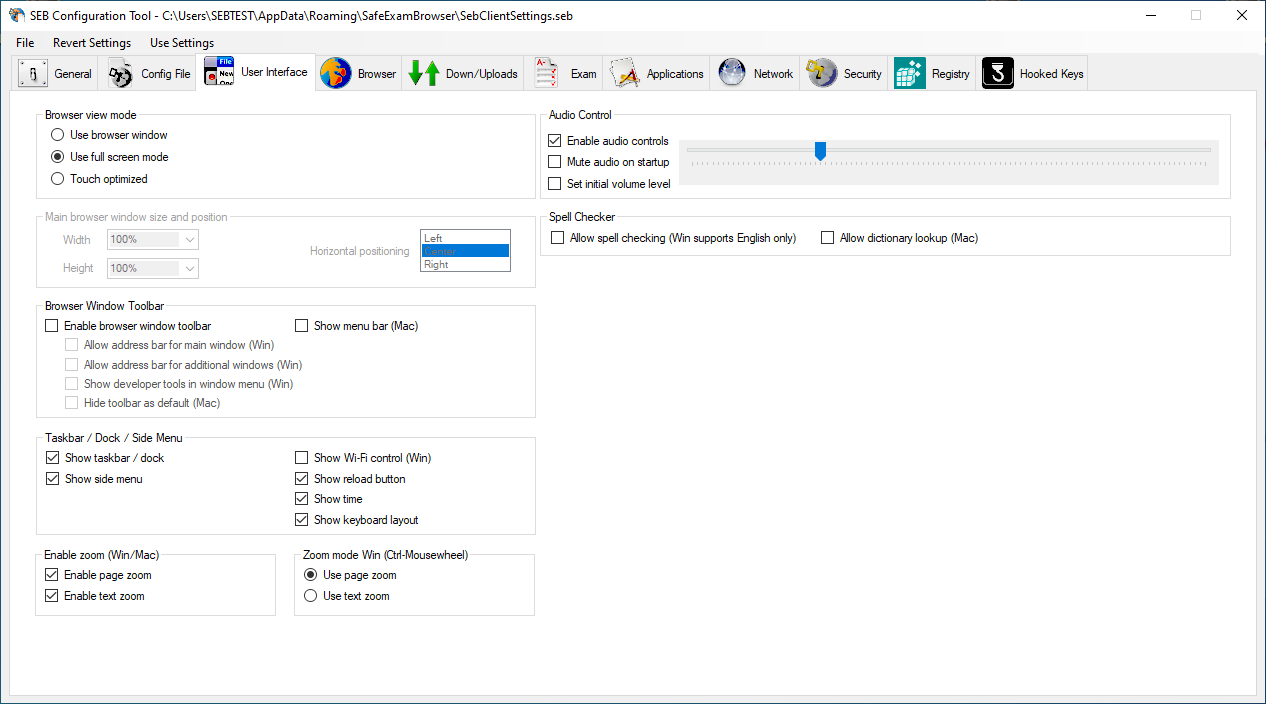
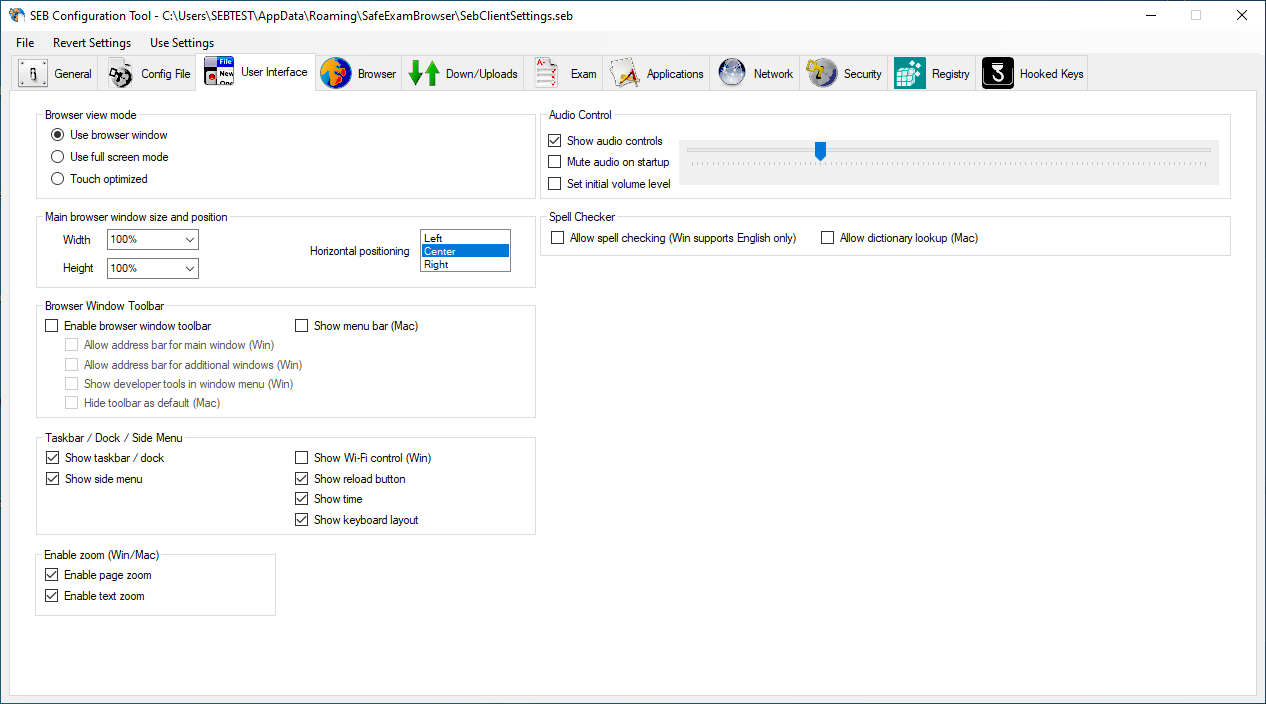
Korrekturen für SEB 3.3.1 gemäss SEBWIN-529
Korrekturen für SEB 3.3.1 gemäss SEBWIN-529

diff --git a/windows/win_usermanual_en.html b/windows/win_usermanual_en.html
@@ -585,13 +585,12 @@ Touch optimized mode features are:
 	</ul>
      <span class="quote">Enable zoom (Win/Mac)</span>
 	<ul>
-            <li><span class="quote">Enable page zoom</span>: Pages can be zoomed with Ctrl-Mousewheel (Win) or cmd +/- or the commands in the view menu and buttons in browser window toolbar (Mac)</li>
+            <li><span class="quote">Enable page zoom</span>:he internal SEB browser can be zoomed with cmd +/- or the commands in the view menu and buttons in browser window toolbar (Mac). Additionally, third party applications can also be zoomed with Ctrl-Mousewheel (Win).</li>
             <li><span class="quote">Enable text zoom</span>: Text in browser windows can be zoomed with Ctrl-Mousewheel (Win) or ctrl - cmd +/- or the commands in the view menu and buttons in browser window toolbar (Mac)</li>
-            <li><span class="quote">Zoom Mode</span> (Win): Zoom whole web pages or just text using Ctrl-Mousewheel (only in Windows version)</li>
           </ul>
           <span class="quote">Audio Controls</span>
           <ul>
-            <li><span class="quote">Enable audio controls</span>: Show the audio control icon in the SEB taskbar which can be used to mute or change audio volume.</li>
+            <li><span class="quote">Show audio controls</span>: Show the audio control icon in the SEB taskbar which can be used to mute or change audio volume.</li>
             <li><span class="quote">Mute audio on startup</span>: Mute  audio initially (when starting SEB or an exam).</li>
             <li><span class="quote">Set initial audio volume</span>: Set an initial value for the audio volume.</li>
           </ul>
@@ -734,7 +733,7 @@ It is possible to configure SEB to quit after the exam is submitted without havi
             Settings in the Applications Pane
           </h4>
           <p>You can allow third party applications to be used while SEB is running. Usually you would enable the SEB taskbar, then for each allowed application (with the setting &quot;Icon in taskbar&quot; enabled) an application icon will be displayed in the SEB taskbar. Clicking on the icon  starts the application when it's not yet running or brings its window(s) to the foreground. If a running application has several windows open, SEB displays a window chooser. You can switch between open windows with  keys Alt-Tab as well.</p>
-          <p>SEB allows only applications to run which are configured in &quot;Permitted Processes&quot; (as long as the &quot;Monitor processes&quot; setting below is active). But SEB cannot prevent these applications from:</p>
+          <p>SEB allows only applications to run which are configured in &quot;Permitted Processes&quot; (as long as the &quot;Monitor processes&quot; setting above is active). But SEB cannot prevent these applications from:</p>
           <p><strong>• Accessing the file system (local or network drives).</strong> So if you use an application which can open and save files and displays a file dialog, students can access local and network drives on the exam computer. </p>
           <p><strong>• Accessing the internet.</strong> SEB only has a URL filter for the built-in browser, other applications and the system are not blocked from accessing the internet. So any third party software with a built-in help browser or similar can be used to cheat during an exam.</p>
           <p>Therefore using such applications requires additional measures, as for example a  drive which is cleaned before every exam on a managed computer and a firewall (either hardware or firewall filter rules in a virtual desktop, see below). If you intend to use SEB with third party applications on unmanaged computers (BYOD, student owned machines), you should run the exam including those third party applications in a secured virtual machine, usually this would be a virtual desktop. <a href="http://safeexambrowser.org/vdi/Competence-Oriented_Exams_VDI+SEB_ETH-LET_2017_03.pdf" target="_blank">This technical paper</a> describes the virtual desktop infrastructure (VDI) environment <a href="https://www.ethz.ch/en.html" target="_blank">ETH Zurich</a> (the top ranked  university in continental Europe which is the driving force behind the development of SafeExamBrowser) is using for such exams. For other (less technical) papers on our exam environment, see our <a href="../about_publications_en.html">publications</a> page. Our environment runs on managed computers and uses the VMware View Client software secured by SEB on the local machine and another instance of SEB running inside the virtual desktop, allowing to use the configured permitted third party applications in addition to an exam displayed by the SEB browser. In a bring-your-own-device scenario you would ideally use VDI with a technology like <a href="https://www.vmware.com/pdf/horizon-view/horizon-html-access-4x-document.pdf" target="_blank">VMware Horizon View HTML Access</a>. Then students just need to install/run SEB on their Windows or Mac laptops. SEB would be configured to only load and display the HTML Access portal page in a full screen browser window (ideally without displaying the SEB taskbar/dock). The entire exam takes place in the virtual desktop, which can be perfectly secured. You also don't have to worry about distributing, configuring and licensing those third party applications you want to use in exams to students, as you just have to install and configure these applications once on the master image for the VDI exam pool. If an exam computer breaks down during the exam, no data is lost, as everything is running inside the virtual desktop on your server infrastructure. Usually such exams would have a browser-based part, where you place the questions and maybe template files, which students then can open in the permitted third party applications. After they finish working on those documents, they can save the results and upload them into the exam, using a file upload question type. Students can only interact with the empty file system inside the virtual desktop, they also cannot access the local file systems or connected USB sticks on their BYOD exam computers.</p>
@@ -742,7 +741,7 @@ It is possible to configure SEB to quit after the exam is submitted without havi
           <h5 class="seb-section-header">Setting options:</h5>
           
           <ul id="seblist">
-            <li><span class="quote">Monitor processes while SEB is running:</span> If enabled, SEB prevents non-permitted processes to display any windows (including alerts, message boxes etc.) by hiding them immediately. If SEB cannot hide such a process (because it is running with the rights of another user, for example SYSTEM) SEB terminates it. For the &quot;<span class="quote">Disable Explorer Shell</span>&quot; kiosk mode (see <a href="win_usermanual_en.html#SecurityPane">Security</a> pane), &quot;Monitor processes...&quot; should always be activated (which was implicitly the case in former SEB versions), but from SEB 2.1 you can (and should in most cases) use this feature also with the &quot;Create new desktop&quot; kiosk mode. </li>
+            <li><span class="quote">Monitor processes while SEB is running:</span> If enabled, SEB prevents non-permitted processes to display any windows (including alerts, message boxes etc.) by hiding them immediately. If SEB cannot hide such a process (because it is running with the rights of another user, for example SYSTEM) SEB terminates it. For the &quot;<span class="quote">Disable Explorer Shell</span>&quot; kiosk mode (see <a href="win_usermanual_en.html#SecurityPane">Security</a> pane), For the "Disable Explorer Shell" and the "Create new desktop" kiosk mode (see Security pane), "Monitor processes..." is always activated and cannot be deactivated (which was the case in former SEB versions). You can only deactivate this feature when using the "None (for debugging only)" Kiosk mode. The only way  to switch off process monitoring in the other kiosk modes is to select "Ignore SEB Service" on tab "Security" (see <a href="win_usermanual_en.html#SecurityPane">Security</a> pane).</li>
           </ul>
           
           <p>Besides the live process monitoring while  running,  when SEB is started,  an alert/dialogue window is displayed to tell the user to quit the currently running applications (which are  in the list of  permitted and prohibited processes) and to restart SEB afterwards or to let SEB kill the applications risking that there could be data loss. Applications which have the <span class="quote">Force quit</span> parameter set are automatically terminated (without asking the user).</p>
